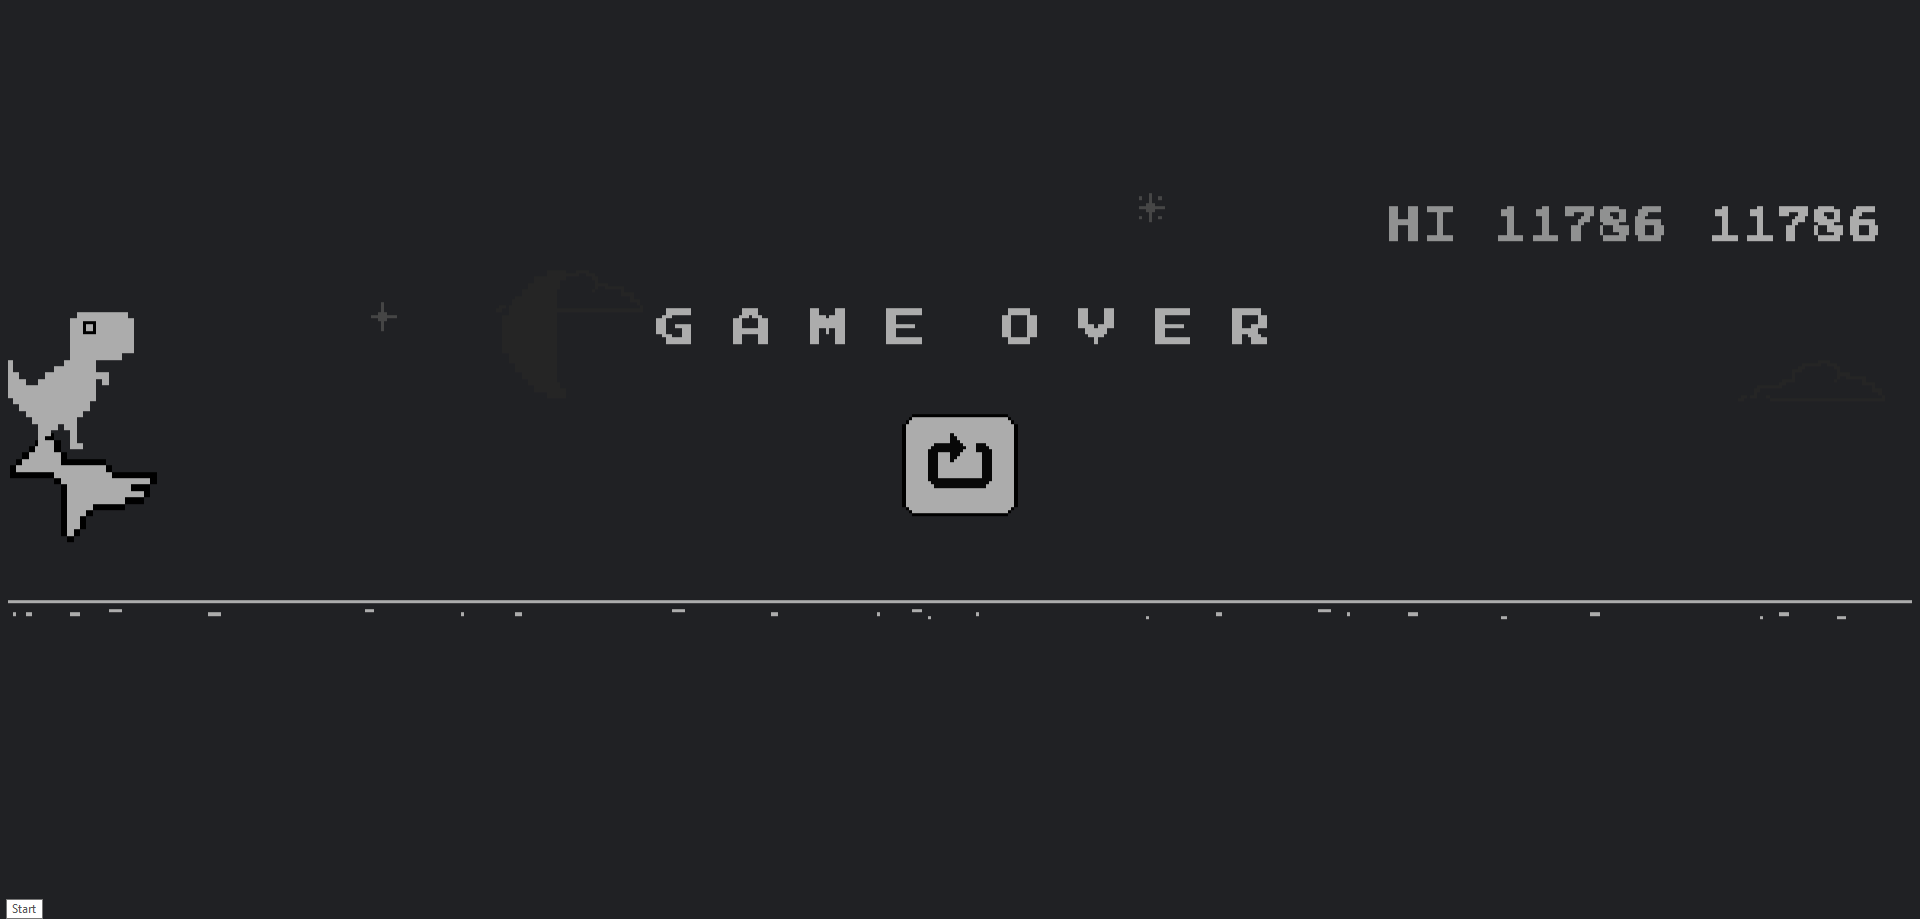
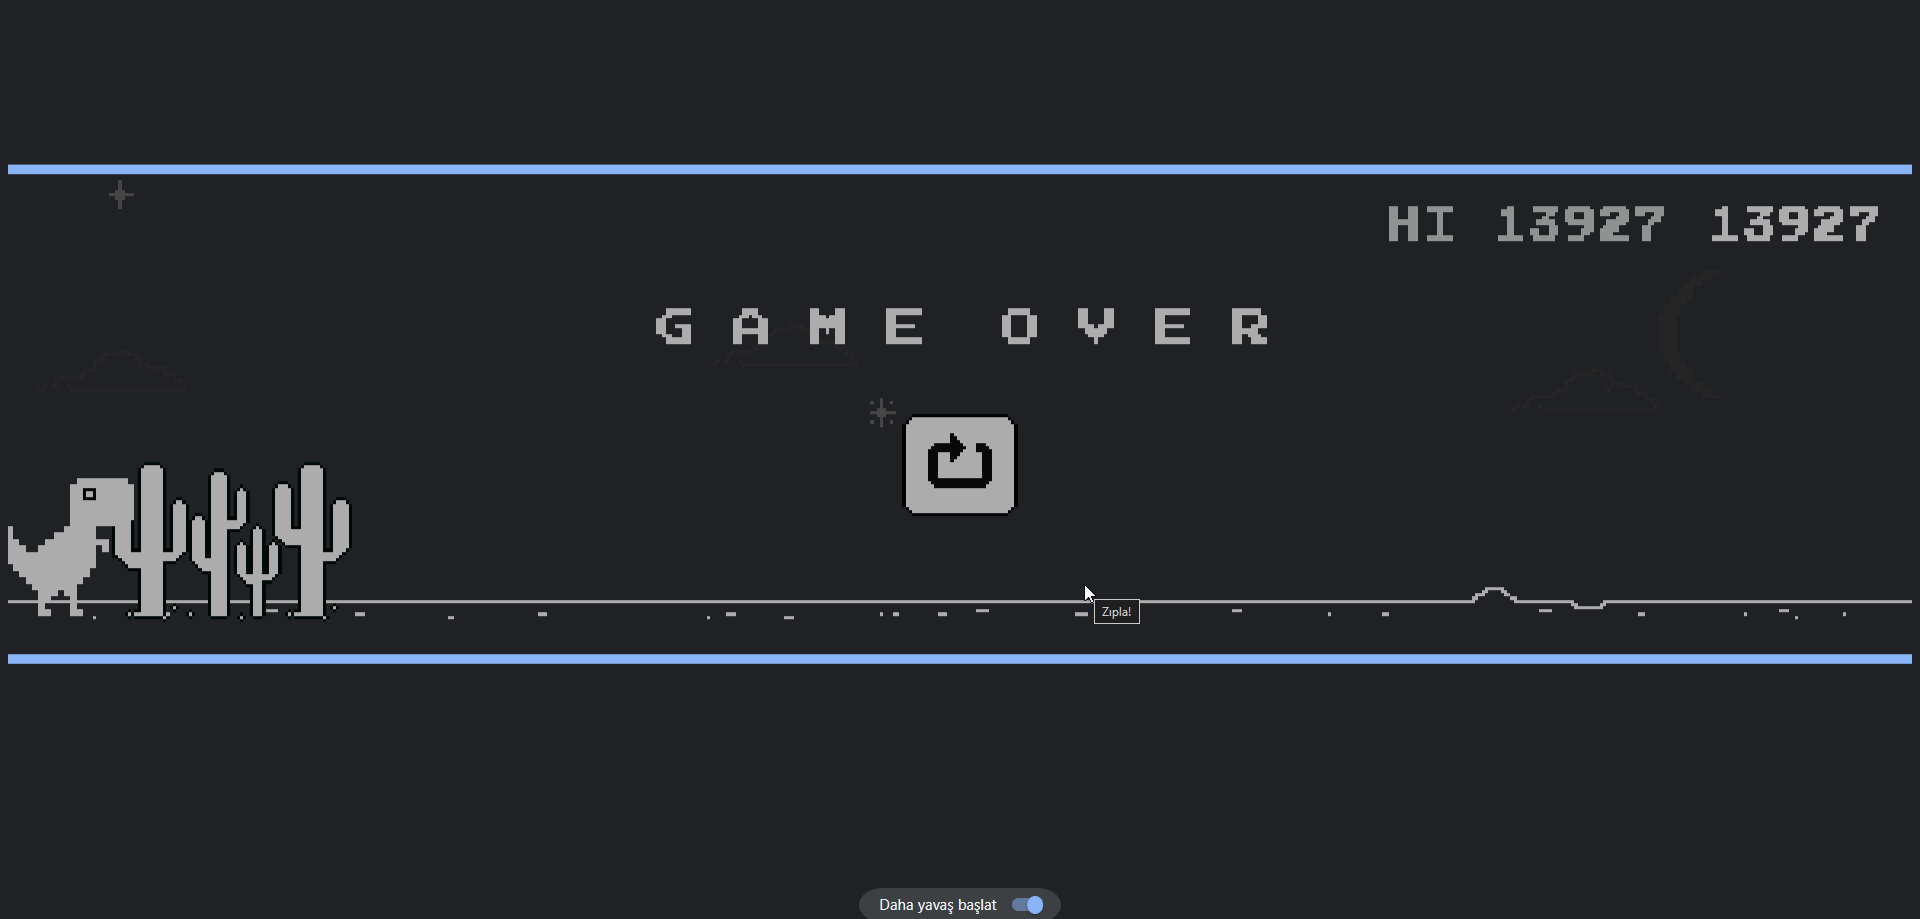
performance improvement

diff --git a/self_playing_chrome_dino.py b/self_playing_chrome_dino.py
@@ -10,7 +10,7 @@ def get_pixel(image, x, y):
 
 def start():
     # set size of the image to be taken
-    x, y, width, height = 0, 102, 1920, 872
+    x, y, width, height = 0, 121, 1920, 872
 
     # calculating time
     jumping_time = 0
@@ -19,8 +19,8 @@ def start():
     last_interval_time = 0
 
     # interval for bot to find obstacles
-    y_search1, y_search2, x_start, x_end = 557, 486, 405, 410
-    y_search_for_bird = 470
+    y_search1, y_search2, x_start, x_end = 557, 498, 240, 405
+    y_search_for_bird = 498
 
     # after the program is executed
     time.sleep(3)
